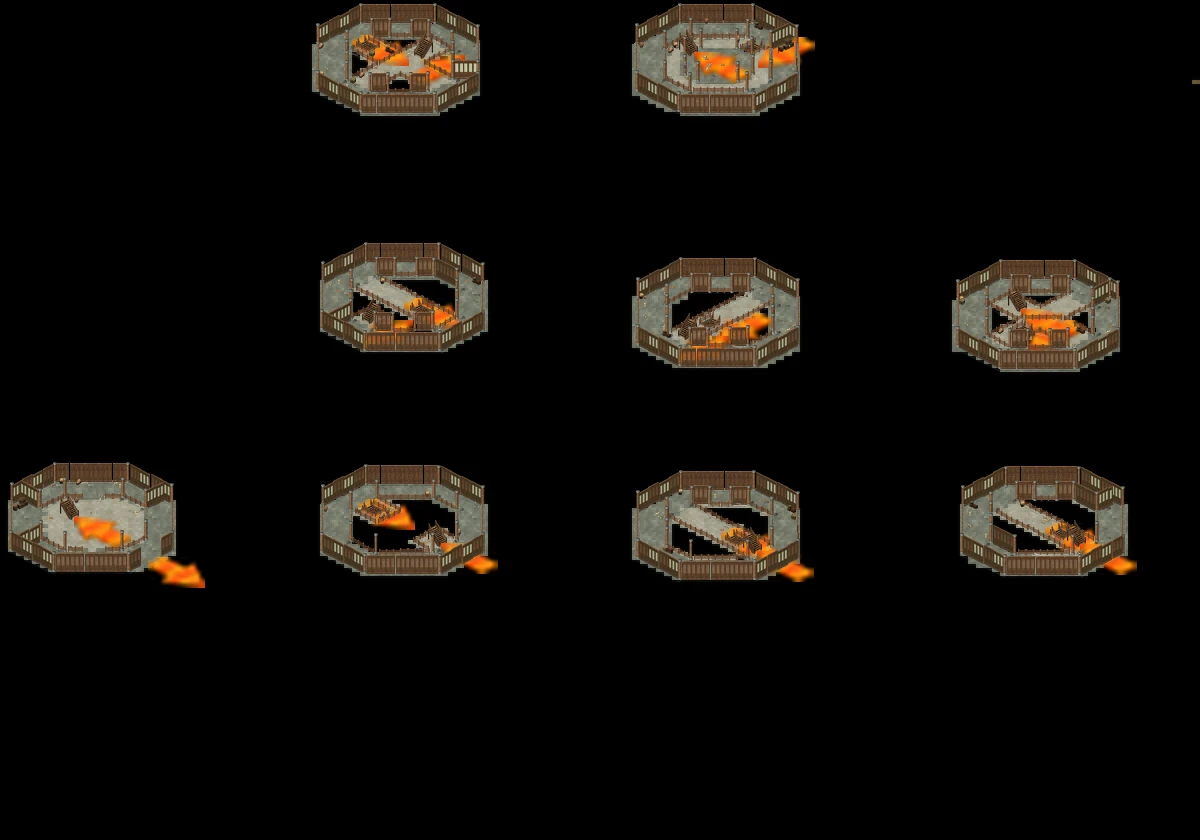
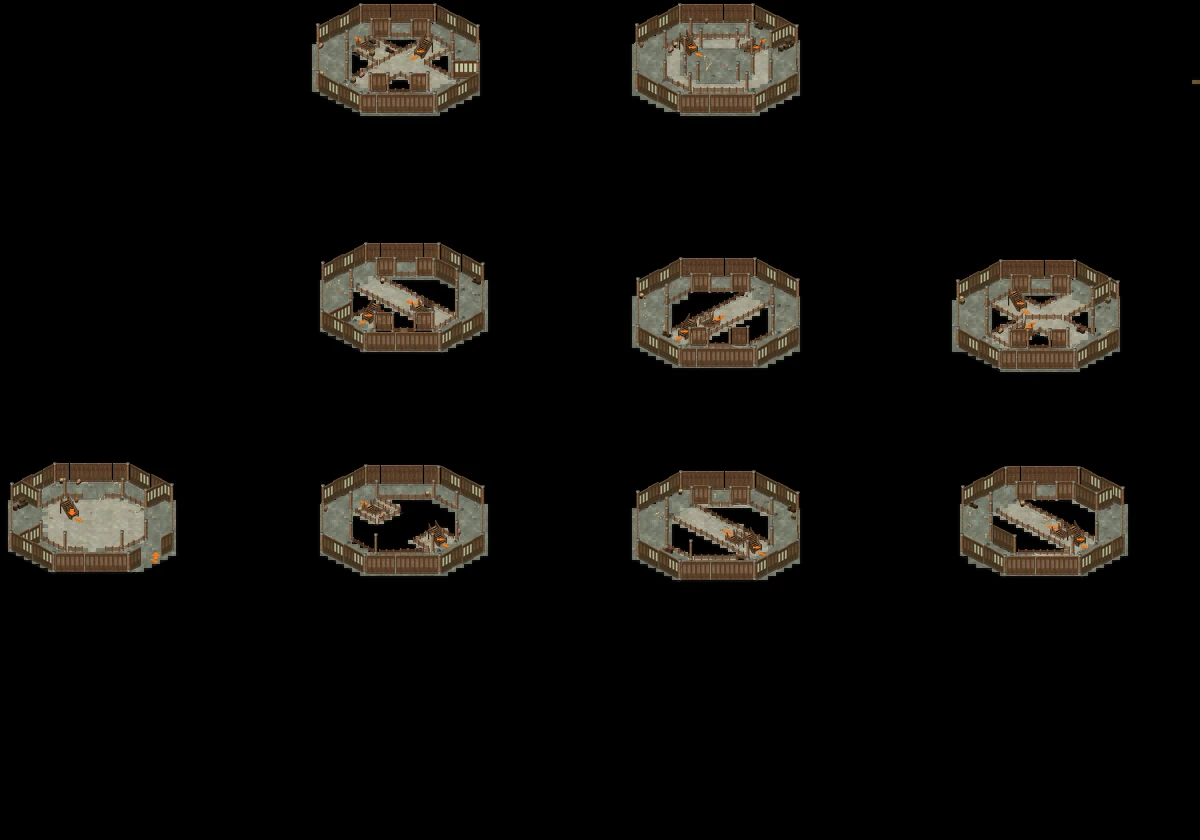
Clean map backgrounds and shrink map markers

diff --git a/css/base.css b/css/base.css
@@ -349,10 +349,10 @@ h1{font-size:24px;line-height:1.22;margin:0 0 8px}h2{font-size:19px;margin:0 0 1
 .mapOverlay{position:absolute;inset:0;pointer-events:none;width:100%;height:100%}
 .mapAreaOverlay{position:absolute;inset:0;pointer-events:none;width:100%;height:100%;z-index:2}
 .mapAreaLabel{position:absolute;transform:translate(-50%,-50%);display:inline-grid;place-items:center;min-width:34px;height:24px;padding:0 8px;border-radius:999px;border:1px solid rgba(34,211,238,.75);background:rgba(6,17,31,.82);box-shadow:0 0 0 3px rgba(0,0,0,.28),0 8px 20px rgba(0,0,0,.35);color:#e0f2fe;font-size:13px;font-weight:1000;white-space:nowrap;text-shadow:0 1px 2px rgba(0,0,0,.65)}
-.mapDot{position:absolute;transform:translate(-50%,-85%);width:28px;height:28px;border-radius:999px;border:2px solid #fff;display:grid;place-items:center;font-size:11px;font-weight:1000;color:#06111f;box-shadow:0 0 0 3px rgba(0,0,0,.4);pointer-events:auto;overflow:hidden}
+.mapDot{position:absolute;transform:translate(-50%,-85%);width:22px;height:22px;border-radius:999px;border:2px solid #fff;display:grid;place-items:center;font-size:10px;font-weight:1000;color:#06111f;box-shadow:0 0 0 2px rgba(0,0,0,.4);pointer-events:auto;overflow:hidden}
 .mapDot.monster{background:#facc15}
 .mapDot.npc{background:#fb7185}
-.mapDot.withImage{width:46px;height:46px;border-radius:12px;background:#07111f}
+.mapDot.withImage{width:34px;height:34px;border-radius:9px;background:#07111f}
 .mapDot.withImage img{display:block;max-width:100%;max-height:100%;object-fit:contain;image-rendering:auto}
 .mapDot.withImage img[src=""],.mapDot.withImage img:not([src]){display:none}
 .mapLoading{position:absolute;z-index:3;left:14px;top:14px;border:1px solid rgba(96,165,250,.42);background:rgba(3,7,18,.88);color:#eaf2ff;border-radius:999px;padding:8px 12px;font-weight:1000}

diff --git a/css/main.css b/css/main.css
@@ -3520,10 +3520,10 @@ body{
 .mapOverlay{position:absolute;inset:0;pointer-events:none;width:100%;height:100%}
 .mapAreaOverlay{position:absolute;inset:0;pointer-events:none;width:100%;height:100%;z-index:2}
 .mapAreaLabel{position:absolute;transform:translate(-50%,-50%);display:inline-grid;place-items:center;min-width:34px;height:24px;padding:0 8px;border-radius:999px;border:1px solid rgba(34,211,238,.75);background:rgba(6,17,31,.82);box-shadow:0 0 0 3px rgba(0,0,0,.28),0 8px 20px rgba(0,0,0,.35);color:#e0f2fe;font-size:13px;font-weight:1000;white-space:nowrap;text-shadow:0 1px 2px rgba(0,0,0,.65)}
-.mapDot{position:absolute;transform:translate(-50%,-85%);width:28px;height:28px;border-radius:999px;border:2px solid #fff;display:grid;place-items:center;font-size:11px;font-weight:1000;color:#06111f;box-shadow:0 0 0 3px rgba(0,0,0,.4);pointer-events:auto;overflow:hidden}
+.mapDot{position:absolute;transform:translate(-50%,-85%);width:22px;height:22px;border-radius:999px;border:2px solid #fff;display:grid;place-items:center;font-size:10px;font-weight:1000;color:#06111f;box-shadow:0 0 0 2px rgba(0,0,0,.4);pointer-events:auto;overflow:hidden}
 .mapDot.monster{background:#facc15}
 .mapDot.npc{background:#fb7185}
-.mapDot.withImage{width:46px;height:46px;border-radius:12px;background:#07111f}
+.mapDot.withImage{width:34px;height:34px;border-radius:9px;background:#07111f}
 .mapDot.withImage img{display:block;max-width:100%;max-height:100%;object-fit:contain;image-rendering:auto}
 .mapDot.withImage img[src=""],.mapDot.withImage img:not([src]){display:none}
 .mapDot.shopNpcDot{border-color:#fbbf24;box-shadow:0 0 0 3px rgba(0,0,0,.45),0 0 0 6px rgba(251,191,36,.22)}

diff --git a/index.html b/index.html
@@ -18,9 +18,9 @@
 <link rel="apple-touch-icon" sizes="180x180" href="assets/favicon-180x180.png?v=2606073">
 <link rel="preload" as="image" href="assets/home_bg_desktop_fast.webp?v=2606081" type="image/webp" media="(min-width: 980px)" fetchpriority="high">
 <link rel="preload" as="image" href="assets/home_bg_mobile_fast.webp?v=2606081" type="image/webp" media="(max-width: 979px)" fetchpriority="high">
-<link rel="stylesheet" href="css/main.css?v=465-map-zoom-fix-0728">
+<link rel="stylesheet" href="css/main.css?v=466-map-clean-markers-0728">
 </head>
-<body data-version="V465-map-zoom-fix-0728" data-build-at="2026-07-28T00:00:00+08:00">
+<body data-version="V466-map-clean-markers-0728" data-build-at="2026-07-28T00:00:00+08:00">
 <div id="appRoot">
   <main>
     <h1>神州-四海同舟</h1>
@@ -29,9 +29,9 @@
     <p>無論是想找怪物位置、確認道具來源、反查掉落怪物，或計算降神與修練所需資源，都可以在這裡快速取得參考資訊。</p>
   </main>
 </div>
-<script src="js/shell.js?v=465-map-zoom-fix-0728"></script>
-<script src="js/script-manifest.js?v=465-map-zoom-fix-0728"></script>
-<script src="js/script-loader.js?v=465-map-zoom-fix-0728"></script>
+<script src="js/shell.js?v=466-map-clean-markers-0728"></script>
+<script src="js/script-manifest.js?v=466-map-clean-markers-0728"></script>
+<script src="js/script-loader.js?v=466-map-clean-markers-0728"></script>
 </body>
 </html>
 
